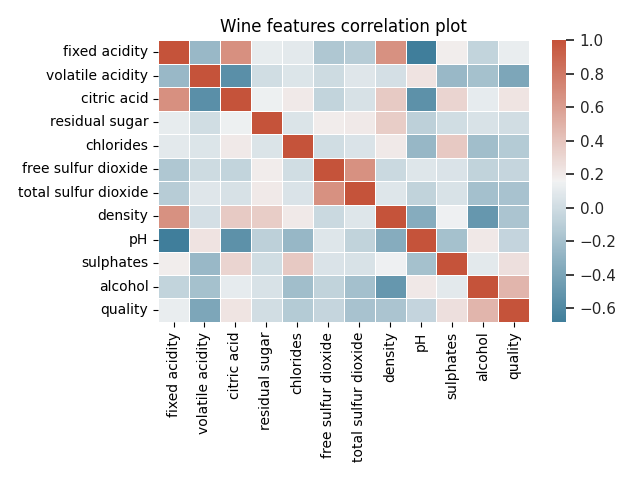
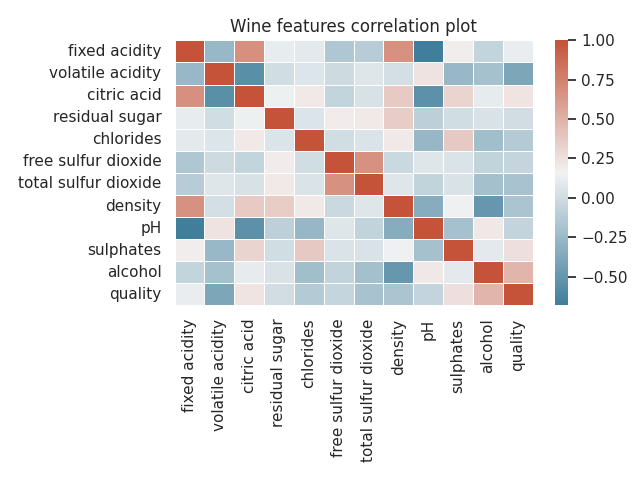
correlation plot of quality and alc percent

Changed region(s): [[0.0312, 0.0312, 1.0, 0.9688], [0.9062, 0.0625, 0.9688, 0.0938]]

diff --git a/wine_quality.py b/wine_quality.py
@@ -37,11 +37,14 @@ def graph_background_information(df):
     '''
     given data frame graph:
         - correlation plot
+        - correlation plot of alcohol vs quality
     '''
+    sns.set_theme()
+    
+    # correlation plot
     correlations = df.corr()
 
     fig, ax = plt.subplots()
-    sns.set_theme()
     cmap = sns.diverging_palette(229, 19, as_cmap=True)
     ax = sns.heatmap(
         data = correlations,
@@ -51,6 +54,12 @@ def graph_background_information(df):
     ax.set_title('Wine features correlation plot')
     fig.tight_layout()
     fig.savefig('red_wine/correlations.png')
+
+    # alcohol vs quality
+    jointplot = sns.jointplot(x='quality', y='alcohol', data=df[['quality', 'alcohol']], kind='reg', ratio=2)
+    jointplot.figure.suptitle('quality vs alcohol percent (%)')
+    jointplot.figure.tight_layout()
+    jointplot.savefig('red_wine/alcohol_vs_quality.png')
 
 
 def graph_trials(results, name, cost=0, time=0):
